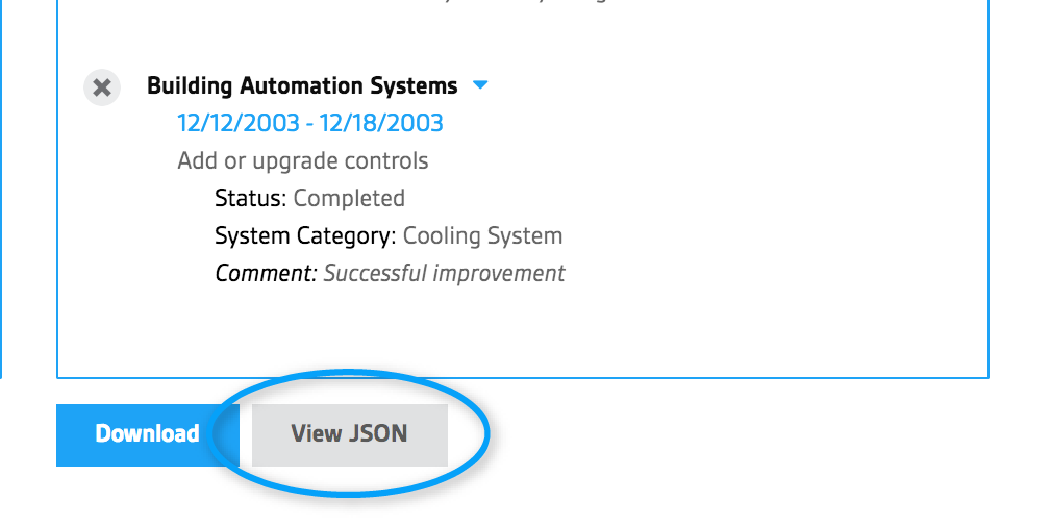
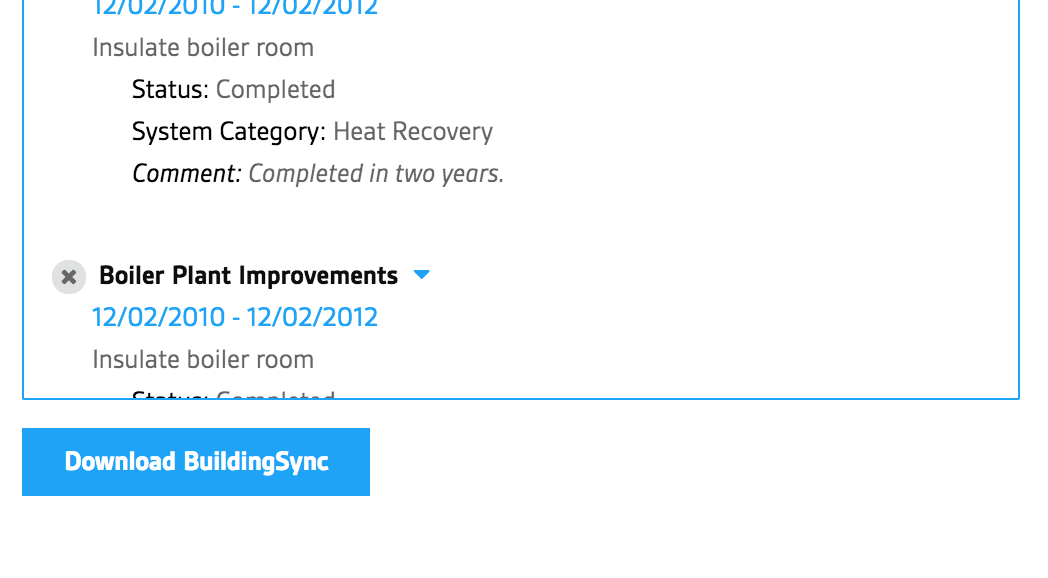
Finished Jira tasks from 3-28-2018:
Fixed date timeline graph x axis to show full date, fixed tooltip to show correct date format, removed extra button and changed name to “download BuildingSync”, removed mentions of CSV download in Use Case, fixed indentation in lists.

diff --git a/app/assets/javascripts/building-life-cycle/partials/building-life-cycle.html b/app/assets/javascripts/building-life-cycle/partials/building-life-cycle.html
@@ -234,13 +234,14 @@
                                 </div>
                                 <div class="ui hidden divider"></div>
                                 <div class="padded row">
-                                    <h2 class="ui right floated small blue header">
+                                    <div class="pointer" ng-click="addSystemToList()">
+                                        <h2 class="ui right floated small blue header">
                                         ADD TO LIST
-                                        <a data-tooltip = "Add system information to System list"
-                                            ng-click="addSystemToList()">
+                                        <a data-tooltip = "Add system information to system list">
                                             <img class="ui right floated mini image" src="/assets/images/down-arrow-blue.svg" />
                                         </a>
-                                    </h2>
+                                        </h2>
+                                    </div>
                                 </div>
                             </div>
                             <div class="ui bottom attached inactive tab very padded segment" data-tab="Measures">
@@ -319,13 +320,14 @@
                                 </div>
                                 <div class="ui hidden divider"></div>
                                 <div class="row">
-                                    <h2 class="ui right floated small blue header">
+                                    <div class="pointer" ng-click="addMeasureToList()">
+                                        <h2 class="ui right floated small blue header">
                                         ADD TO LIST
-                                        <a data-tooltip = "Add measure event to Measures list"
-                                           ng-click="addMeasureToList()">
-                                        <img class="ui right floated mini image" src="/assets/images/down-arrow-blue.svg"/ >
+                                        <a data-tooltip = "Add measure information to measures list">
+                                            <img class="ui right floated mini image" src="/assets/images/down-arrow-blue.svg" />
                                         </a>
-                                    </h2>
+                                        </h2>
+                                    </div>
                                 </div>
                             </div>
                         </div>
@@ -420,8 +422,7 @@
                                 </div>
                             </div>
                         </div>
-                        <button class="ui blue button" ng-click="downloadData()">Download</button>
-                        <button class="ui gray button"> View JSON</button>
+                        <button class="ui blue button" ng-click="downloadData()">Download BuildingSync</button>
                     </div>
                     <div class="column">
                         <h2>MEASURES</h2>
@@ -436,18 +437,20 @@
                                             {{measure.systemType}}
                                             <i class="blue dropdown icon"></i>
                                         </div>
-                                        <div class="active content">
-                                            <div style="color:#06a1f9">
-                                                {{measure.startDate | date:'MM/dd/yyyy' }} - 
-                                                {{measure.endDate | date:'MM/dd/yyyy' }}
-                                            </div>
-                                            <div class="subtitle">
-                                            {{measure.detail}}
-                                            </div>  
-                                            <div class="indent">
-                                                <div><span style="color:black">Status: </span>{{measure.implementationStatus}}</div>
-                                                <div><span style="color:black">System Category: </span>{{measure.systemCategory}}</div>
-                                                <div><i><span style="color:black">Comment: </span>{{measure.comment}}</i></div>
+                                        <div class="indent">
+                                            <div class="active content">
+                                                <div style="color:#06a1f9">
+                                                    {{measure.startDate | date:'MM/dd/yyyy' }} - 
+                                                    {{measure.endDate | date:'MM/dd/yyyy' }}
+                                                </div>
+                                                <div class="subtitle">
+                                                {{measure.detail}}
+                                                </div>  
+                                                <div class="indent">
+                                                    <div><span style="color:black">Status: </span>{{measure.implementationStatus}}</div>
+                                                    <div><span style="color:black">System Category: </span>{{measure.systemCategory}}</div>
+                                                    <div><i><span style="color:black">Comment: </span>{{measure.comment}}</i></div>
+                                                </div>
                                             </div>
                                         </div>
                                     </div>
@@ -455,8 +458,7 @@
                                 </div>
                             </div>
                         </div>
-                        <button class="ui blue button" ng-click="downloadData()">Download</button>
-                        <button class="ui gray button"> View JSON</button>
+                        <button class="ui blue button" ng-click="downloadData()">Download BuildingSync</button>
                     </div>
                 </div>
                 <div class="ui hidden divider"></div>

diff --git a/app/assets/javascripts/common/directives/timeline.js b/app/assets/javascripts/common/directives/timeline.js
@@ -67,22 +67,30 @@ define(['angular', 'moment', 'highcharts', 'highcharts-drilldown', 'highcharts-e
                     chart: {
                         backgroundColor: "transparent",
                         style: {
-                            fontFamily: 'Gesta',
+                            fontFamily: "gesta,'Helvetica Neue',Arial,Helvetica,sans-serif"
                         },
                         marginLeft:150,
                         marginRight:150,
                         MarginTop:50
                     },
+                      global: {
+                        useUTC: false
+                    },
                     xAxis: {
 						title: {
-							text: 'Year',
+                            text: 'Date Installed',
+                            style: {
+                                color: 'black',
+                            },
 						},
-                        type: "datetime",
-                        tickInterval: 24 * 3600 * 1000 * 365,
+                        type: "datetime", 
+                        labels: {
+                            format: '{value:%b - %e - %Y}'
+                        },
 						gridLineWidth: 0,
-						lineWidth: 0,
+						lineWidth: 1,
 						minorGridLineWidth: 0,
-						lineColor: 'transparent'
+						lineColor: '#cdcdcd'
                     },
 
                     yAxis: {
@@ -94,10 +102,12 @@ define(['angular', 'moment', 'highcharts', 'highcharts-drilldown', 'highcharts-e
                     legend: {
                         enabled: false
                     },
-					tooltip: {
-						headerFormat: '',
-					},
-					plotOptions: {
+                    tooltip: {
+                        xDateFormat: 'End Date: ' + '%b - %e - %Y',
+                        pointFormat: '',
+                        useHTML: true
+                    },
+                    plotOptions: {
 						flags: {
 							useHTML: true,
 							lineWidth: 2,

diff --git a/app/assets/javascripts/building-life-cycle/partials/usecase_content.html b/app/assets/javascripts/building-life-cycle/partials/usecase_content.html
@@ -124,7 +124,7 @@
             schema to standardize data for use across a range of applications. BuildingSync® is a standardized language for commercial building energy audit data that software developers can use to exchange data between audit tools.
         </p>
         <p>
-            Structured, standardized data can be exported from the tool in two ways:
+            Structured, standardized data can be exported from the tool <!--in two ways:
         </p>
         <p>
             The most common method to export data is by clicking the ‘Download CSV’ button. 
@@ -134,7 +134,7 @@
             This will provide users a CSV file with a list of all Systems and Measures in a standardized format. Municipalities can generate CSV files for each building in their portfolio and then combine them to view a distribution of system types and measures across their portfolio. This data can also be integrated with energy-use data and passed to third parties who can jumpstart a Building Energy Audit.
         </p>
         <p>
-            The second method to export data is by clicking the ‘Print JSON’ button.
+            The second method to export data is -->by clicking the ‘Download BuildingSync’ button.
         <img class="ui padded centered image" src="./assets/images/view-json.png" style="width:500px;">
         </p>
         <p>

diff --git a/app/assets/stylesheets/main.css b/app/assets/stylesheets/main.css
@@ -9,6 +9,9 @@ p {
 h2 {
     font-color: black;
 }
+.pointer {
+    cursor:pointer;
+}
 .indent {
     margin-left: 20px;
 }
@@ -31,10 +34,6 @@ h2 {
 .ui.mini.avatar.image {
     margin-right: 10px; 
     width:20px !important;
-}
-
-.fluid.accordion .content {
-    margin-left: 50px;
 }
 
 .fluid.accordion .block {
